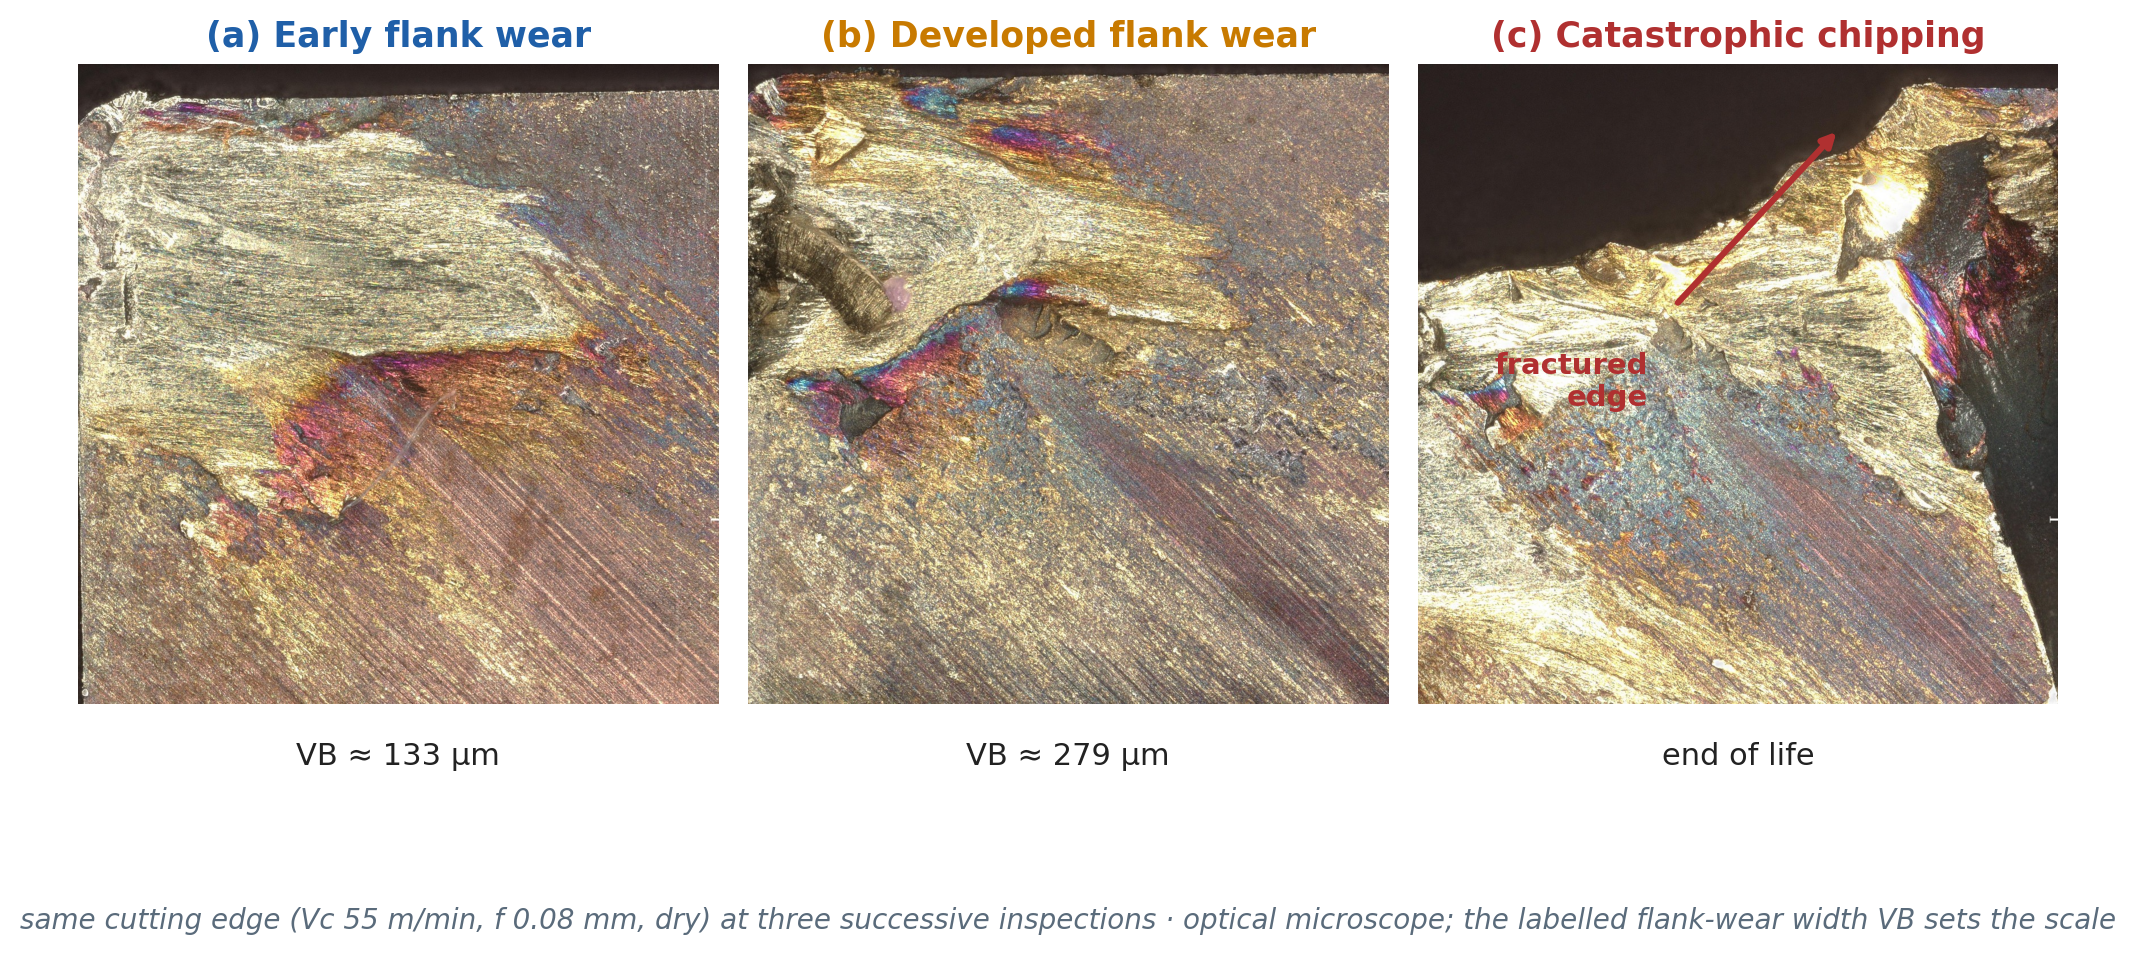
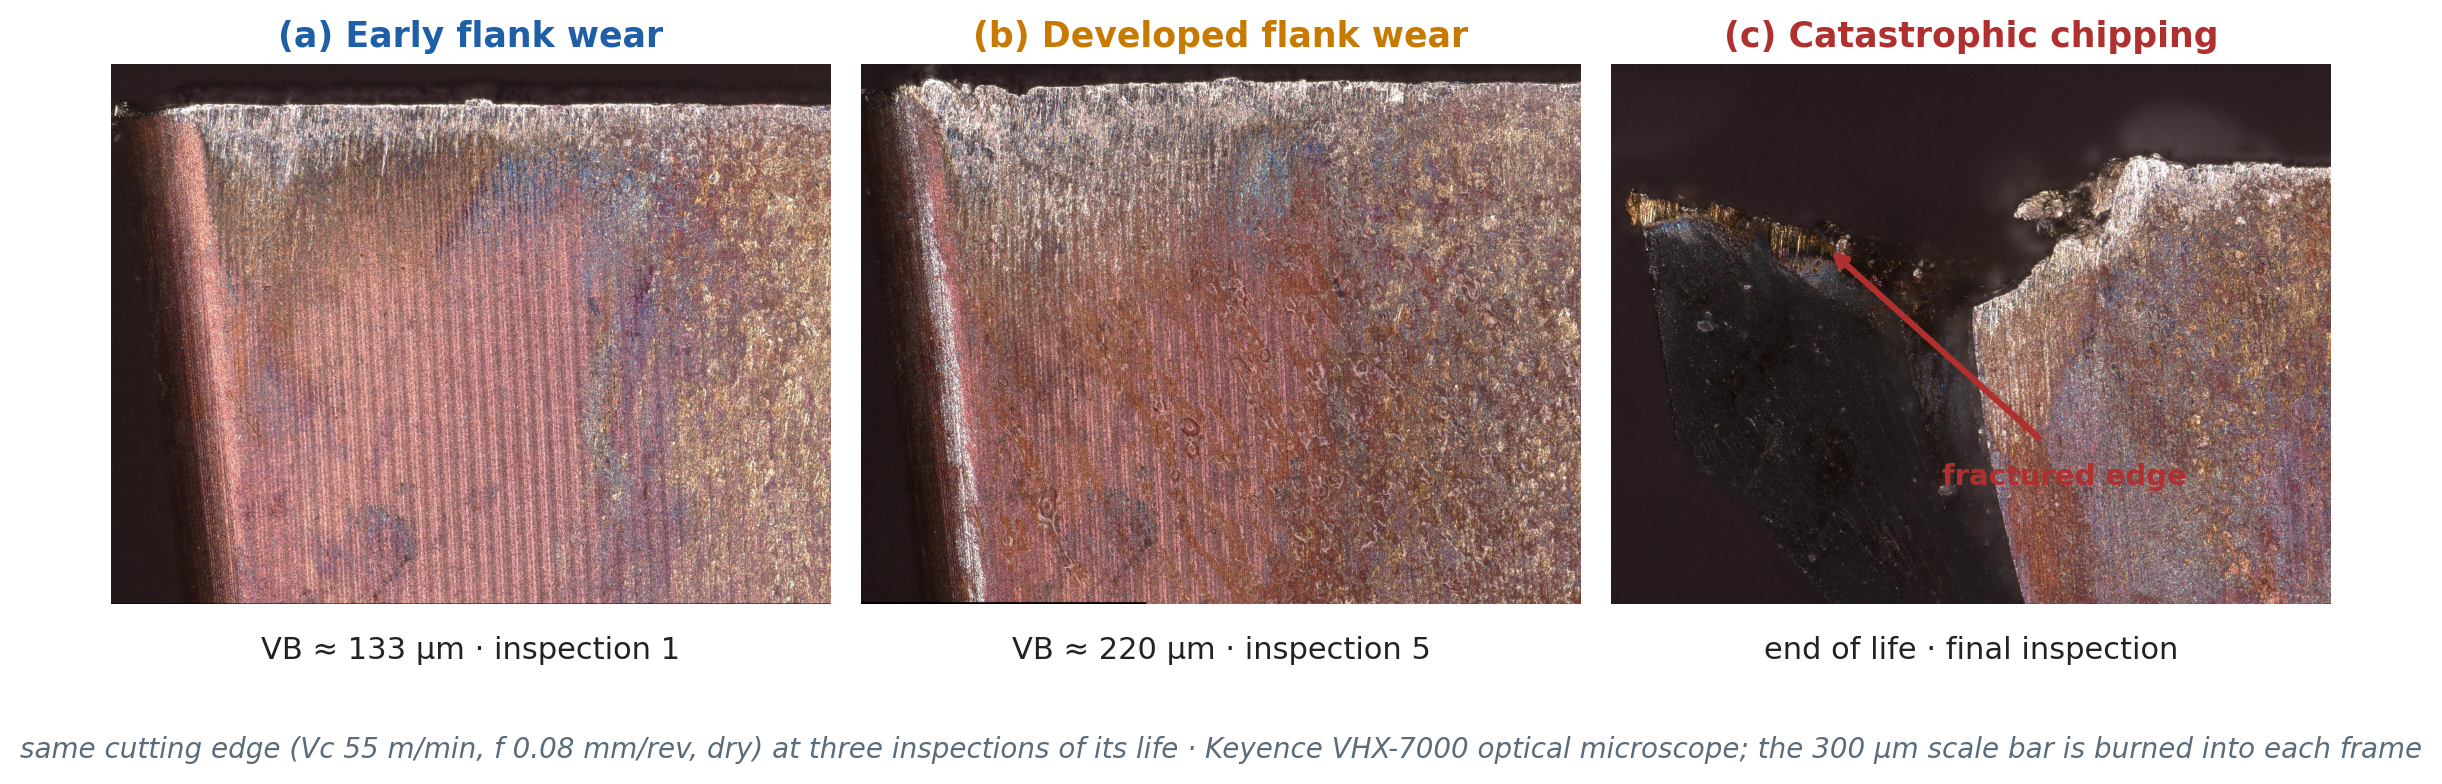
fig(microscopy): re-selected the three wear stages from the full lab catalogue (D:\New Dry)
Progression now reads cleanly: inspection 1 (VB 133, straight edge, incipient wear) ->
inspection 5 (VB 220, widened band, degraded surface) -> final inspection (fracture).
Previous panel (a) already showed a notch, which undercut the 'early' stage.
Also: letterbox trim by dark-fraction, fracture arrow re-aimed at the fracture.

diff --git a/scripts/make_wear_microscopy_figure.py b/scripts/make_wear_microscopy_figure.py
@@ -17,34 +17,44 @@ SRC = os.path.join(HERE, "..", "outputs", "figures", "microscopy_src")
 OUT = os.path.join(HERE, "..", "outputs", "figures", "wear_microscopy.png")
 
 PANELS = [
-    ("micro_a_early_133um.jpg", "(a) Early flank wear", "VB ≈ 133 µm", "#1f5fa8"),
-    ("micro_b_developed_279um.jpg", "(b) Developed flank wear", "VB ≈ 279 µm", "#c87a00"),
-    ("micro_c_chipping.jpg", "(c) Catastrophic chipping", "end of life", "#b03030"),
+    ("micro_a_early_133um.jpg", "(a) Early flank wear", "VB ≈ 133 µm · inspection 1", "#1f5fa8"),
+    ("micro_b_developed_220um.jpg", "(b) Developed flank wear", "VB ≈ 220 µm · inspection 5", "#c87a00"),
+    ("micro_c_chipping.jpg", "(c) Catastrophic chipping", "end of life · final inspection", "#b03030"),
 ]
 
 
 def main():
-    fig, axes = plt.subplots(1, 3, figsize=(10.2, 5.4))
+    fig, axes = plt.subplots(1, 3, figsize=(11.4, 4.2))
     for ax, (fn, head, sub, col) in zip(axes, PANELS):
         im = Image.open(os.path.join(SRC, fn))
         w, h = im.size
         # top-aligned SQUARE crop: keeps the cutting corner (top of frame) and the action,
         # trims the wide black margins -> less flattened panels
-        side = min(w, h)
-        x0 = (w - side) // 2
-        im = im.crop((x0, 0, x0 + side, side))
+        # the cutting corner sits at the LEFT of these panoramas; keep it plus context,
+        # in a 4:3 window so the three panels share one aspect and none looks flattened
+        import numpy as _np
+        arr = _np.asarray(im.convert("L"))
+        # a letterbox band may cover only PART of a row, so test the dark FRACTION, not the mean
+        dark_frac = (arr < 28).mean(axis=1)
+        rows_ok = _np.where(dark_frac < 0.30)[0]
+        y0, y1 = (int(rows_ok[0]), int(rows_ok[-1]) + 1) if len(rows_ok) else (0, h)
+        im = im.crop((0, y0, w, y1)); h = y1 - y0
+        side_h = h
+        side_w = int(side_h * 4 / 3)
+        x0 = 0 if side_w >= w else max(0, int(w * 0.02))
+        im = im.crop((x0, 0, min(w, x0 + side_w), side_h))
         ax.imshow(im); ax.axis("off")
         ax.set_title(head, fontsize=12.5, fontweight="bold", color=col, pad=6)
         ax.text(0.5, -0.06, sub, transform=ax.transAxes, ha="center", va="top",
                 fontsize=11, color="#222222")
     # arrow to the fracture on panel (c)
     axc = axes[2]
-    axc.annotate("", xy=(0.66, 0.90), xytext=(0.40, 0.62), xycoords="axes fraction",
+    axc.annotate("", xy=(0.30, 0.66), xytext=(0.60, 0.30), xycoords="axes fraction",
                  arrowprops=dict(arrowstyle="-|>", color="#b03030", lw=2.2))
-    axc.text(0.36, 0.55, "fractured\nedge", transform=axc.transAxes, ha="right", va="top",
+    axc.text(0.63, 0.26, "fractured edge", transform=axc.transAxes, ha="center", va="top",
              fontsize=10.5, color="#b03030", fontweight="bold")
-    fig.text(0.5, 0.02, "same cutting edge (Vc 55 m/min, f 0.08 mm, dry) at three successive "
-             "inspections · optical microscope; the labelled flank-wear width VB sets the scale",
+    fig.text(0.5, 0.02, "same cutting edge (Vc 55 m/min, f 0.08 mm/rev, dry) at three inspections of its life · "
+             "Keyence VHX-7000 optical microscope; the 300 µm scale bar is burned into each frame",
              ha="center", fontsize=10, color="#5a6b7b", style="italic")
     fig.tight_layout(rect=(0, 0.05, 1, 1))
     fig.savefig(OUT, dpi=200, bbox_inches="tight")